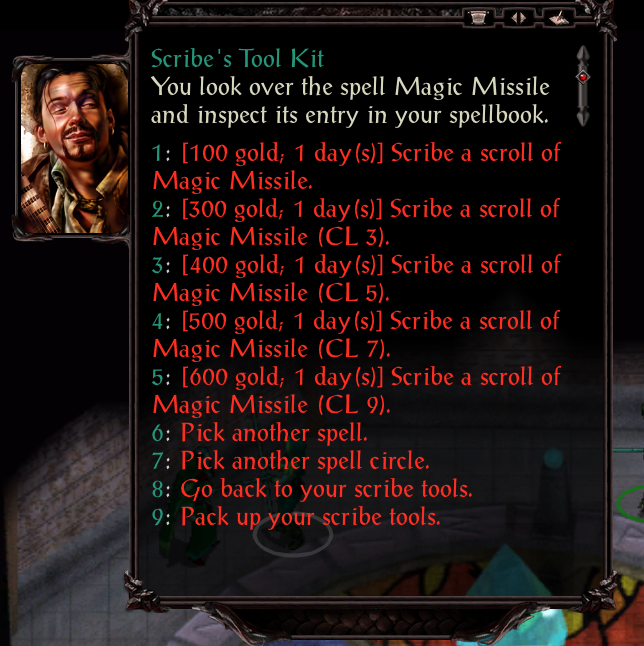
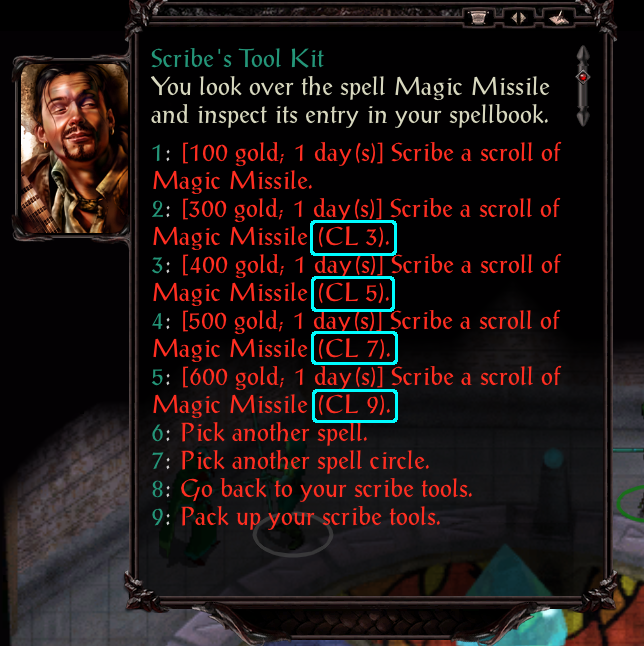
Adding in leveled scrolls documentation

Changed region(s): [[0.4658, 0.3406, 0.6211, 0.6811]]

diff --git a/mod-caster-crafting/documentation/leveled_scrolls.md b/mod-caster-crafting/documentation/leveled_scrolls.md
@@ -1,0 +1,42 @@
+# Leveled Scrolls
+This component generates scrolls from existing spells that are leveled (have slightly different effects based off of level),
+up to level 50. This component does not add anything to stores, just installs the new assets.
+
+
+## Why bother?
+There can be a big difference between Magic Missile at level 1 and at level 9. Keeping scrolls around for this spell in-game really feels
+pointless in the base game, but being able to go into a dragon fight with 15 such max-level scrolls makes a lot more sense.
+
+
+## Distinction
+Since the effects of the scrolls differ, each leveled scroll requires a different `*.itm` file. This prevents scrolls of different levels from stacking.
+To distinguish scrolls, I have added a suffix to each generated scroll indicating its caster level: `, CL 20`
+
+It would feel jarring to have 10 different versions of the same spell scroll icon in-game with nothing to distinguish them but hovering over the item
+to see its name
+
+
+## Item Codes
+These scrolls are dynamic, so I cannot tell you which items will exist until after installation. Some mods change spells and at which level their
+effects occur, or rate, or introduce new leveled effects where none previously existed. If the spell has abilities past minimum caster level, this mod
+should detect them and attempt to create a new scroll item with that leveled effect.
+
+
+## Cost
+This is somewhat complicated. Since AD&D 2E had very little pricing guidance (unlike D&D 3E), I had to take a wild stab at it. Costs landed where they
+"feel" about right. The equation for calculating the leveled scroll cost is:
+
+`base scroll level cost` + (`Excess Caster Level` * 50 * `Spell level`)
+where:
+- `base scroll level cost` is the cost within the `*.itm` file of the base scroll for the spell at minimum caster level.
+- `Excess Caster Level` is the number of levels past the minimum caster level.
+    - e.g.: Magic Missile has a minimum caster level of 1; a level 9 version would have `Excess Caster Level` of (9 - 1) = 8
+    - e.g.: Fireball has a minimum caster level of 5; a level 12 version would have `Excess Caster Level` of (12 - 5) = 7
+- `Spell level` is the spell's level within a spellbook.
+    - e.g.: Magic Missile is a level 1 spell
+    - e.g.: Fireball is a level 3 spell
+
+
+## Process
+The process for crafting a leveled scroll is identical to that of a regular scroll; it should simply display all scroll options when you go to craft a scroll:
+![Leveled scroll options](.images/leveled_scroll_options.png)

diff --git a/mod-caster-crafting/readme-caster-crafting.md b/mod-caster-crafting/readme-caster-crafting.md
@@ -52,7 +52,7 @@ In BG1:EE, there are some spells that were included back from BG2 but lack scrol
 Quest-level spells. These new scrolls get registered in with existing scrolls for crafting. Options are given to generate missing Priest spells,
 missing Wizard spells, or both. This component does not add any such items to in-game stores.
 
-### Leveled Scrolls: craft scrolls at higher caster levels
+### [Leveled Scrolls: craft scrolls at higher caster levels](./documentation/leveled_scrolls.md)
 What it says on the tin. This component generates scrolls from existing spells that are leveled (have slightly different effects based off of level),
 up to level 50. So Fireball up to level 12, Magic Missile levels 3, 5, 7, and 9, for example. These new scrolls get registered in with existing scrolls
 for crafting. This component does not add any such items to in-game stores.
